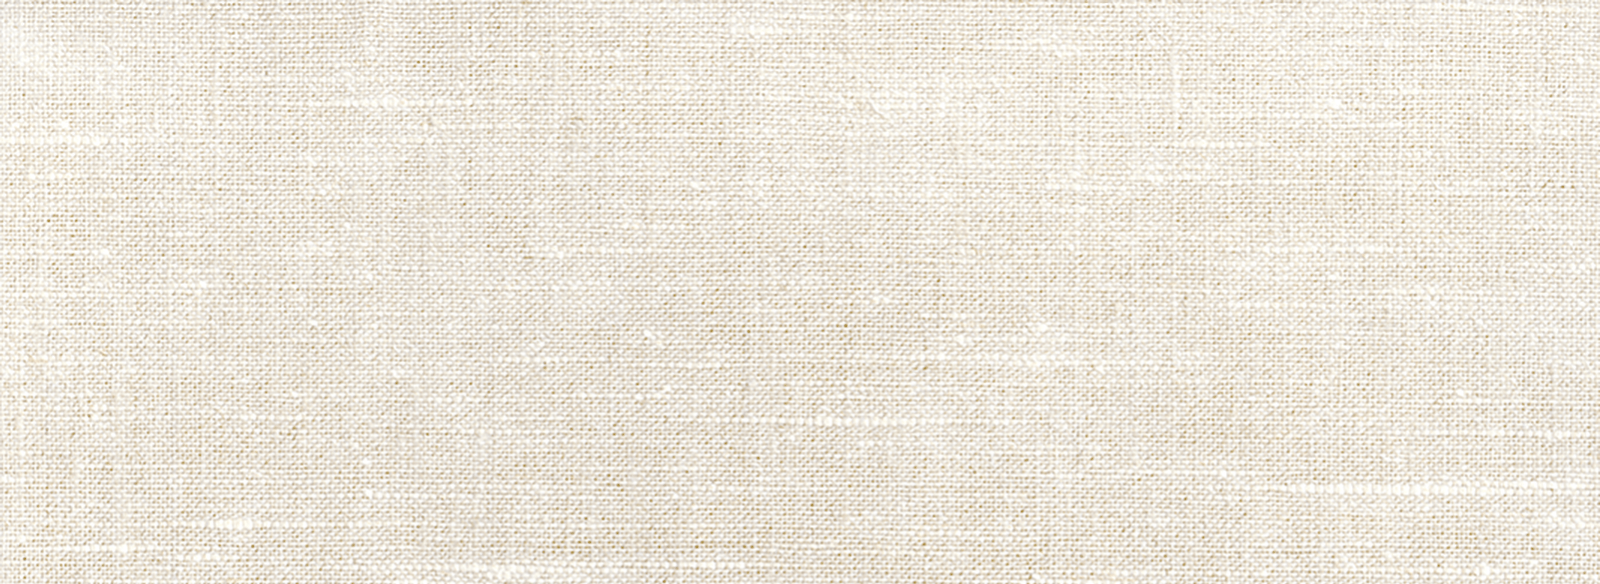
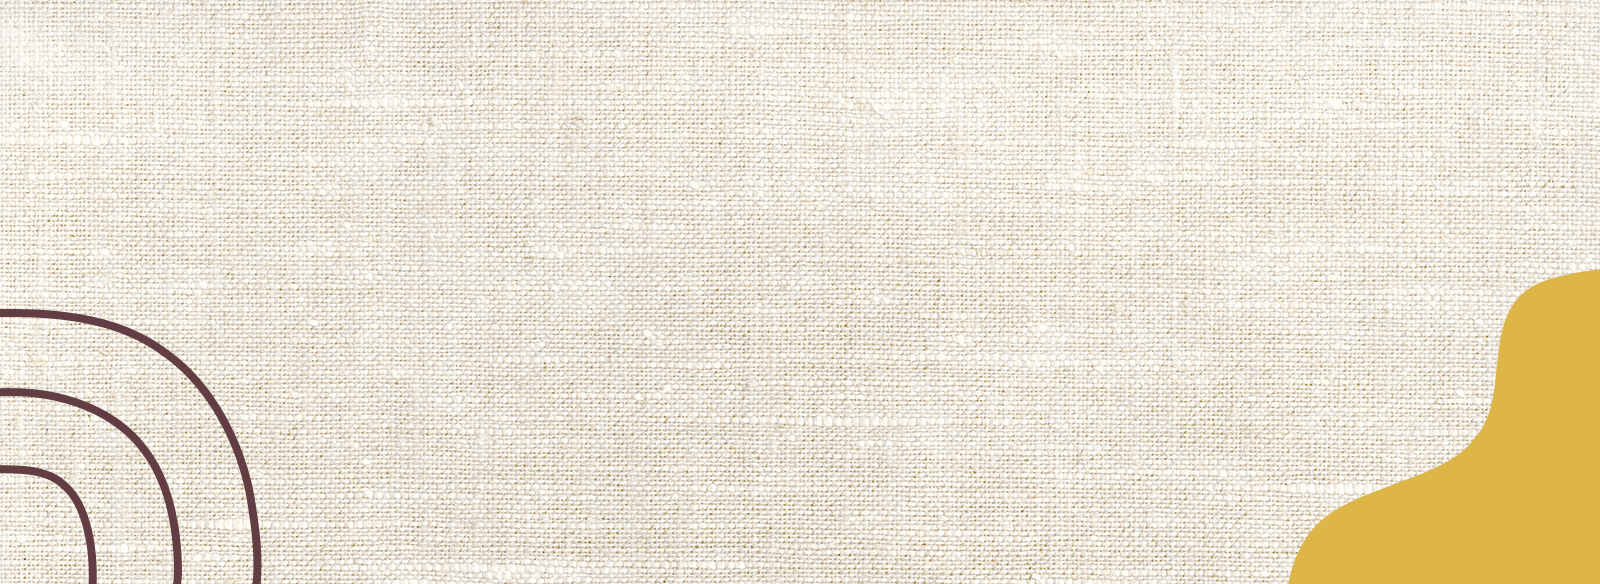
finshed HTML and MVP styling

diff --git a/index.html b/index.html
@@ -26,7 +26,7 @@
     <section class="about wrapper">
       <div class="about-text">
         <h2 tabindex="0">About Me</h2>
-        <p>As a recent grad of Juno College, I have uncovered a passion for creating fresh and modern websites that inspire engaging experiences that are accessible for all users. I have an eye for detail and treat my code like it is my product — following best practices while keeping it clean and efficient.</p>
+        <p>As a recent Juno grad, I have uncovered a passion for creating fresh+modern sites that inspire an engaging, accessible experience. I have an eye for detail and treat my code like it is my product — following best practices while keeping it clean & efficient.</p>
         <p>A background in People & Culture left me with stellar skills as a generalist who can quickly adapt with emerging priorities. As a thoughtful storyteller, I'm at my best when solving complex problems in team-based environments where creative solutions and consensus-building are valued.</p>
         <p>While my text editor sleeps, you'll likely find me designing interior spaces, at a park with a coffee-in-hand, or exploring the city on my fixed gear.</p>
       </div>
@@ -45,13 +45,9 @@
           <li class="icon-grid"><i class="devicon-jquery-plain"></i><p>jQuery</p></li>
           <li class="icon-grid"><i class="devicon-react-original"></i><p>React</p></li>
           <li class="icon-grid"><i class="devicon-firebase-plain"></i><p>Firebase</p></li>
-          <li class="icon-grid"><i class="devicon-vscode-plain"></i>
-            <p>VSCode</p>
-          </li>
+          <li class="icon-grid"><i class="devicon-vscode-plain"></i><p>VSCode</p></li>
           <li class="icon-grid"><i class="devicon-git-plain"></i><p>Git+Github</p></li>
-          <li class="icon-grid"><i class="fas fa-universal-access"></i>
-          <p>Accessibility</p>
-          </li>
+          <li class="icon-grid"><i class="fas fa-universal-access"></i><p>Accessibility</p></li>
           <li class="icon-grid"><i class="fas fa-mobile"></i><p>Responsive Design</p></li>
           <li class="icon-grid"><i class="devicon-photoshop-plain"></i><p>Photoshop</p></li>
         </ul>
@@ -76,35 +72,40 @@
     <section class="lets-connect">
       <div class="wrapper">
         <h2 tabindex="0">Let's Connect</h2>
-        <h3>Dev Profiles</h3>
-        <ul>
-          <li>LinkedIn</li>
-          <li>Github</li>
-          <li>Twitter</li>
-          <li>Email</li>
-        </ul>
-        <form action="submit" name="contact-form">
-          <div class="name-email">
-            <label for="name" class="visually-hidden">Name</label>
-            <input type="text" id="name" name="name" placeholder="Name">
-
-            <label for="email" class="visually-hidden">Email</label>
-            <input type="email" id="email" name="email" placeholder="Email Address">
+        <div class="form-container">
+          <form name="contact-form" method="POST" data-netlify="true">
+            <div class="name-email">
+              <label for="name" class="visually-hidden">Name</label>
+              <input type="text" id="name" name="name" placeholder="*Your name">
+              
+              <label for="email" class="visually-hidden">Email</label>
+              <input type="email" id="email" name="email" placeholder="*Your email">
+            </div>
+            
+            <div class="message-button">
+              <label for="message" class="visually-hidden">Your Message</label>
+              <textarea name="message" id="message" cols="30" rows="10" placeholder="What's on your mind? 🔥 Hot tip 👉 I'm always down for a coffee chat!"></textarea>
+              
+              <button type="submit">Submit</button>
+            </div>
+          </form>
+          <div class="profiles">
+            <ul>
+              <li><a title="Find me on LinkedIn" href="https://www.linkedin.com/in/coreysheldrick/"><i class="fab fa-linkedin-in"></i></a></li>
+              <li><a title="Check out my Github" href="https://github.com/coreybrendan"><i class="fab fa-github"></i></i></a></li>
+              <li><a title="Follow me on Tweeters" href="https://twitter.com/coreybrendan"><i class="fab fa-twitter"></i></a></li>
+              <li><a title="Send me an email" href="mailto:coreybrendan@me.com"><i class="fas fa-envelope"></i></a></li>
+            </ul>
           </div>
-
-          <div class="message-button">
-            <label for="message" class="visually-hidden">Your Message</label>
-            <textarea name="message" id="message" cols="30" rows="10" placeholder="Message"></textarea>
-
-            <button type="submit">Submit</button>
-          </div>
-
-        </form>
-      </div>
+        </div> <!-- /.content-container -->
+      </div> <!-- /.wrapper -->
     </section>
   </main>
 
-  <footer></footer>
+  <footer>
+    <p>Designed + Developed with ❤</p>
+    <p>by Corey Sheldrick</p>
+  </footer>
 
   <script src="script.js"></script>
 </body>

diff --git a/styles.css b/styles.css
@@ -196,7 +196,7 @@ header img {
 
 /* my-work styles */
 .my-work h2 {
-  background-image: url(./assets/Untitled-1.png);
+  background-image: url(./assets/my-work-blob.png);
   background-repeat: no-repeat;
   color: #fff;
   padding: 2px 0 8px 25px;
@@ -224,7 +224,10 @@ header img {
 .lets-connect {
   background-image: url(./assets/lets-connect-background.png);
   background-size: cover;
-  padding-top: 25px;
+  background-position: right bottom;
+  padding-top: 30px;
+  margin-top: 30px;
+  position: relative;
 }
 
 .lets-connect h2 {
@@ -245,7 +248,113 @@ header img {
   white-space: nowrap;
 }
 
+.form-container {
+  display: flex;
+  justify-content: space-between;
+  justify-content: center;
+}
 
+.profiles {
+  position: absolute;
+  top: 83px;
+  right: 15px;
+}
+
+.profiles li {
+  list-style-type: none;
+  padding: 8px;
+}
+
+.profiles li a:hover,
+.profiles li a:focus {
+  color: #888a63;
+}
+
+.profiles li a {
+  text-decoration: none;
+  color: #333;
+  font-size: 2rem;
+  cursor: pointer;
+}
+
+.profiles ul {
+  display: flex;
+  flex-direction: column;
+  justify-content: center;
+}
+
+form {
+  width: 65%;
+  opacity: 0.8;
+}
+
+:placeholder-shown {
+  letter-spacing: 1px;
+  color: #333;
+  padding: 15px;
+}
+
+.name-email {
+  width: 80%;
+  padding: 20px 0;
+  margin: 0 auto;
+  display: flex;
+  justify-content: space-between;
+}
+
+.name-email #name {
+  width: 48%;
+  padding: 5px 10px;
+  border-style: none;
+}
+
+.name-email #email {
+  width: 48%;
+  padding: 5px 10px;
+  border-style: none;
+}
+
+.message-button {
+  display: flex;
+  flex-direction: column;
+  width: 80%;
+  margin: 0 auto;
+}
+
+textarea {
+  resize: none;
+  border: none;
+  padding: 5px 10px;
+}
+
+button {
+  margin: 20px 0 30px;
+  padding: 5px;
+  border-style: none;
+  background-color: #fff;
+  cursor: pointer;
+  color: #333;
+  letter-spacing: 1px;
+}
+
+button:hover,
+button:focus {
+  background-color: #888a63;
+  color: #fff;
+  opacity: 1;
+}
+
+/* footer styles */
+footer {
+  background-color: #333;
+  color: #fff;
+  text-align: center;
+  padding: 15px 0;
+}
+
+footer p {
+  line-height: 27px;
+}
 
 /* media queries */
 @media (max-width: 940px) {
